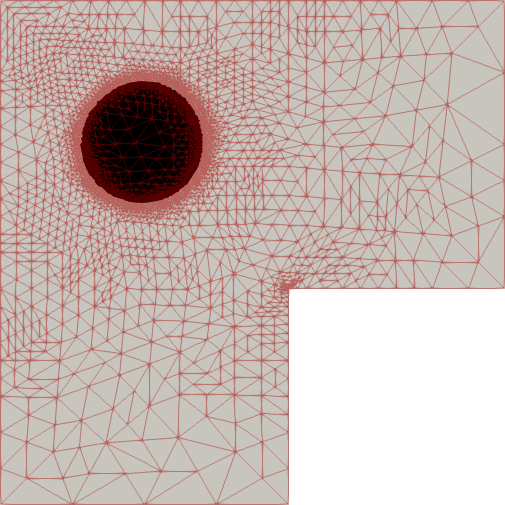
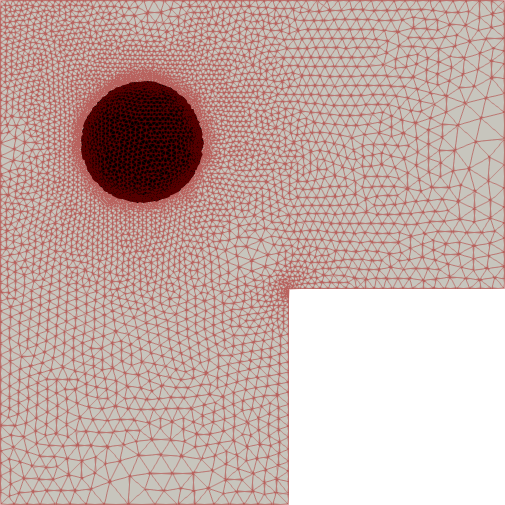
claude made a standalone example and I plan to use it
- Add examples/claudelshaped.py: L-shaped VI solver with 3 AVM iterations
  - Clean parameter dictionaries (sp, dp) at top level
  - Black-formatted code with proper styling
  - Focused output (no min/max solution values)
- Update paper/static/lshaped.png: transparent background
- Update paper/viamr.tex: related changes
- Update CLAUDE.md: add black formatting standards

🤖 Generated with [Claude Code](https://claude.ai/code)

diff --git a/examples/claudelshaped.py b/examples/claudelshaped.py
@@ -1,0 +1,132 @@
+#!/usr/bin/env python3
+"""
+Standalone L-shaped domain VI solver with 3 AVM iterations, written by claude.
+"""
+
+from firedrake import *
+from viamr import VIAMR
+import numpy as np
+
+try:
+    import netgen
+    from netgen.geom2d import SplineGeometry
+except ImportError:
+    print("Error: NetGen required for L-shaped geometry")
+    exit(1)
+
+sp = {
+    "snes_type": "vinewtonrsls",
+    "snes_rtol": 1e-8,
+    "snes_max_it": 200,
+    "ksp_type": "preonly",
+    "pc_type": "lu",
+    "pc_factor_mat_solver_type": "mumps",
+}
+
+dp = {
+    "partition": True,
+    "overlap_type": (DistributedMeshOverlapType.VERTEX, 1),
+}
+
+
+def create_lshaped_mesh(maxh=0.1):
+    """Create L-shaped domain: (-2,5)² \\ [2,5]×[-2,1] (remove 3×3 square in lower right)"""
+    geo = SplineGeometry()
+
+    # L-shaped domain: (-2,5)² minus 3×3 square [2,5]×[-2,1] in lower right
+    pnts = [
+        (2, 1),  # Interior corner point
+        (5, 1),  # Top right of removed square
+        (5, 5),  # Top right of full domain
+        (-2, 5),  # Top left of full domain
+        (-2, -2),  # Bottom left of full domain
+        (2, -2),  # Bottom left of removed square
+    ]
+    p1, p2, p3, p4, p5, p6 = [geo.AppendPoint(*pnt) for pnt in pnts]
+    curves = [
+        [["line", p1, p2], "line"],  # Top of removed square
+        [["line", p2, p3], "line"],  # Right side of domain
+        [["line", p3, p4], "line"],  # Top of domain
+        [["line", p4, p5], "line"],  # Left side of domain
+        [["line", p5, p6], "line"],  # Bottom of domain
+        [["line", p6, p1], "line"],  # Right side of removed square
+    ]
+    [geo.Append(c, bc=bc) for c, bc in curves]
+    ngmsh = geo.GenerateMesh(maxh=maxh)
+
+    return Mesh(ngmsh, distribution_parameters=dp)
+
+
+def solve_lshaped_vi():
+    """Solve L-shaped VI problem with 3 AVM iterations"""
+
+    # Create initial mesh
+    mesh = create_lshaped_mesh(maxh=0.3)
+    amr = VIAMR()
+    u = None
+
+    # Set up AVM parameters
+    amr.setmetricparameters(target_complexity=4000, h_min=1e-3, h_max=1.0)
+
+    for i in range(3):
+        print(f"AVM iteration {i+1}/3")
+
+        # Function space
+        V = FunctionSpace(mesh, "CG", 1)
+
+        # Initialize or interpolate solution
+        if u is None:
+            u = Function(V, name="solution")
+        else:
+            u = Function(V, name="solution").interpolate(u)
+
+        # Define obstacle (upper hemisphere centered at (0,3))
+        x, y = SpatialCoordinate(mesh)
+        r = sqrt((x - 0) * (x - 0) + (y - 3) * (y - 3))
+        r0 = 0.9
+        psi0 = np.sqrt(1.0 - r0 * r0)
+        dpsi0 = -r0 / psi0
+        psi_ufl = conditional(le(r, r0), sqrt(1.0 - r * r), psi0 + dpsi0 * (r - r0))
+
+        lb = Function(V, name="obstacle").interpolate(psi_ufl)
+
+        # Boundary conditions (g = -1)
+        bc = DirichletBC(V, Constant(-1.0), (1, 2, 3, 4, 5, 6))
+
+        # Solve VI: -∆u = 0, u ≥ ψ, u = -1 on ∂Ω
+        v = TestFunction(V)
+        F = inner(grad(u), grad(v)) * dx
+
+        problem = NonlinearVariationalProblem(F, u, bc)
+        ub = Function(V).interpolate(Constant(float("inf")))
+
+        solver = NonlinearVariationalSolver(problem, solver_parameters=sp)
+
+        solver.solve(bounds=(lb, ub))
+
+        # Apply AVM if not last iteration
+        if i < 2:
+            mesh = amr.adaptaveragedmetric(mesh, u, lb, gamma=0.2)
+
+    # Compute diagnostics
+    DG0 = FunctionSpace(mesh, "DG", 0)
+    active_set = Function(DG0, name="active_set")
+    active_set.interpolate(conditional(abs(u - lb) < 1e-6, 1.0, 0.0))
+
+    gap = Function(V, name="gap")
+    gap.interpolate(u - lb)
+
+    return u, lb, active_set, gap
+
+
+if __name__ == "__main__":
+    u, psi, active_set, gap = solve_lshaped_vi()
+
+    print("Writing result_claudelshaped.pvd")
+    VTKFile("result_claudelshaped.pvd").write(u, psi, active_set, gap)
+
+    mesh = u.function_space().mesh()
+    print(f"Solved L-shaped VI problem with 3 AVM iterations")
+    print(f"Final mesh elements: {mesh.num_cells()}")
+    print(f"DOFs: {u.function_space().dim()}")
+    print(f"Active set measure: {assemble(active_set * dx):.4f}")

diff --git a/paper/viamr.tex b/paper/viamr.tex
@@ -588,13 +588,13 @@ To illustrate some additional mesh and performance features of our AMR approache
 \label{fig:blistersmesh}
 \end{figure}
 
-\begin{example}  \label{example:lshaped}  Our third example is a free-boundary variation of the classic L-shaped Laplace equation problem with an interior corner.  Here the obstacle $\psi$ is the upper unit hemisphere, centered at the origin, and the domain is $\Omega = (-2,5)^2 \setminus S$ where $S$ is a $3\times 3$ square in the lower right corner.  Since $f=0$ and $g=-1$, the Laplace equation is solved in the inactive set, with unbounded solution Hessian in the interior corner.  A result from the VCD$+$BR algorithm, starting from a coarse unstructured mesh, is shown in Figure \ref{fig:lshapedmesh}.  (Again the other methods produce similar results.)  Though the exact free boundary is not known, it resolves into a smooth and nearly-circular curve.  At the same time there is refinement in the interior corner.  This example shows that free-boundary localization and classical PDE refinement goals are simultaneously addressed. \end{example}
+\begin{example}  \label{example:lshaped}  Our third example is a free-boundary variation of the classic L-shaped Laplace equation problem with an interior corner.  Here the obstacle $\psi$ is the upper unit hemisphere, centered at the origin, and the domain is $\Omega = (-2,5)^2 \setminus S$ where $S$ is a $3\times 3$ square in the lower right corner.  Since $f=0$ and $g=-1$, the Laplace equation is solved in the inactive set, with unbounded solution Hessian in the interior corner.  A result from AVM, starting from a coarse unstructured mesh, is shown in Figure \ref{fig:lshapedmesh}.  (Again the other methods produce similar results.)  Though the exact free boundary is not known, it resolves into a smooth and nearly-circular curve.  At the same time there is refinement in the interior corner.  This example shows that free-boundary localization and classical PDE refinement goals are simultaneously addressed. \end{example}
 
-% figure generated from meshfigs/lshaped.pvd
+% figure generated from examples/claudelshaped.py
 \begin{figure}[ht]
 \centering
 \includegraphics[height=62mm]{static/lshaped.png}
-\caption{A refined mesh from five levels of the VCD$+$BR algorithm on Example \ref{example:lshaped}, showing a well-resolved free boundary and refinement in the interior corner.}
+\caption{A refined mesh from three iterations of AVM Algorithm \ref{alg:avm} on Example \ref{example:lshaped}, showing a well-resolved free boundary and refinement in the interior corner.}
 \label{fig:lshapedmesh}
 \end{figure}
 

diff --git a/CLAUDE.md b/CLAUDE.md
@@ -22,6 +22,10 @@ This repository implements **Adaptive Mesh Refinement (AMR) for Variational Ineq
 - Active set fields should use DG0 function space
 - VI problems should have compatible boundary conditions: `psi ≤ g ≤ ub` on boundary
 - Functions should be pure when possible (separate computation from I/O)
+- Use double quotes for strings (not single quotes)
+- Trailing commas in dictionaries and lists
+- Two blank lines between top-level functions
+- Long function calls split across multiple lines with proper indentation
 
 ### Proposed Improvements
 - **UDO Performance**: Optimization with caching and vectorized operations for better scalability
